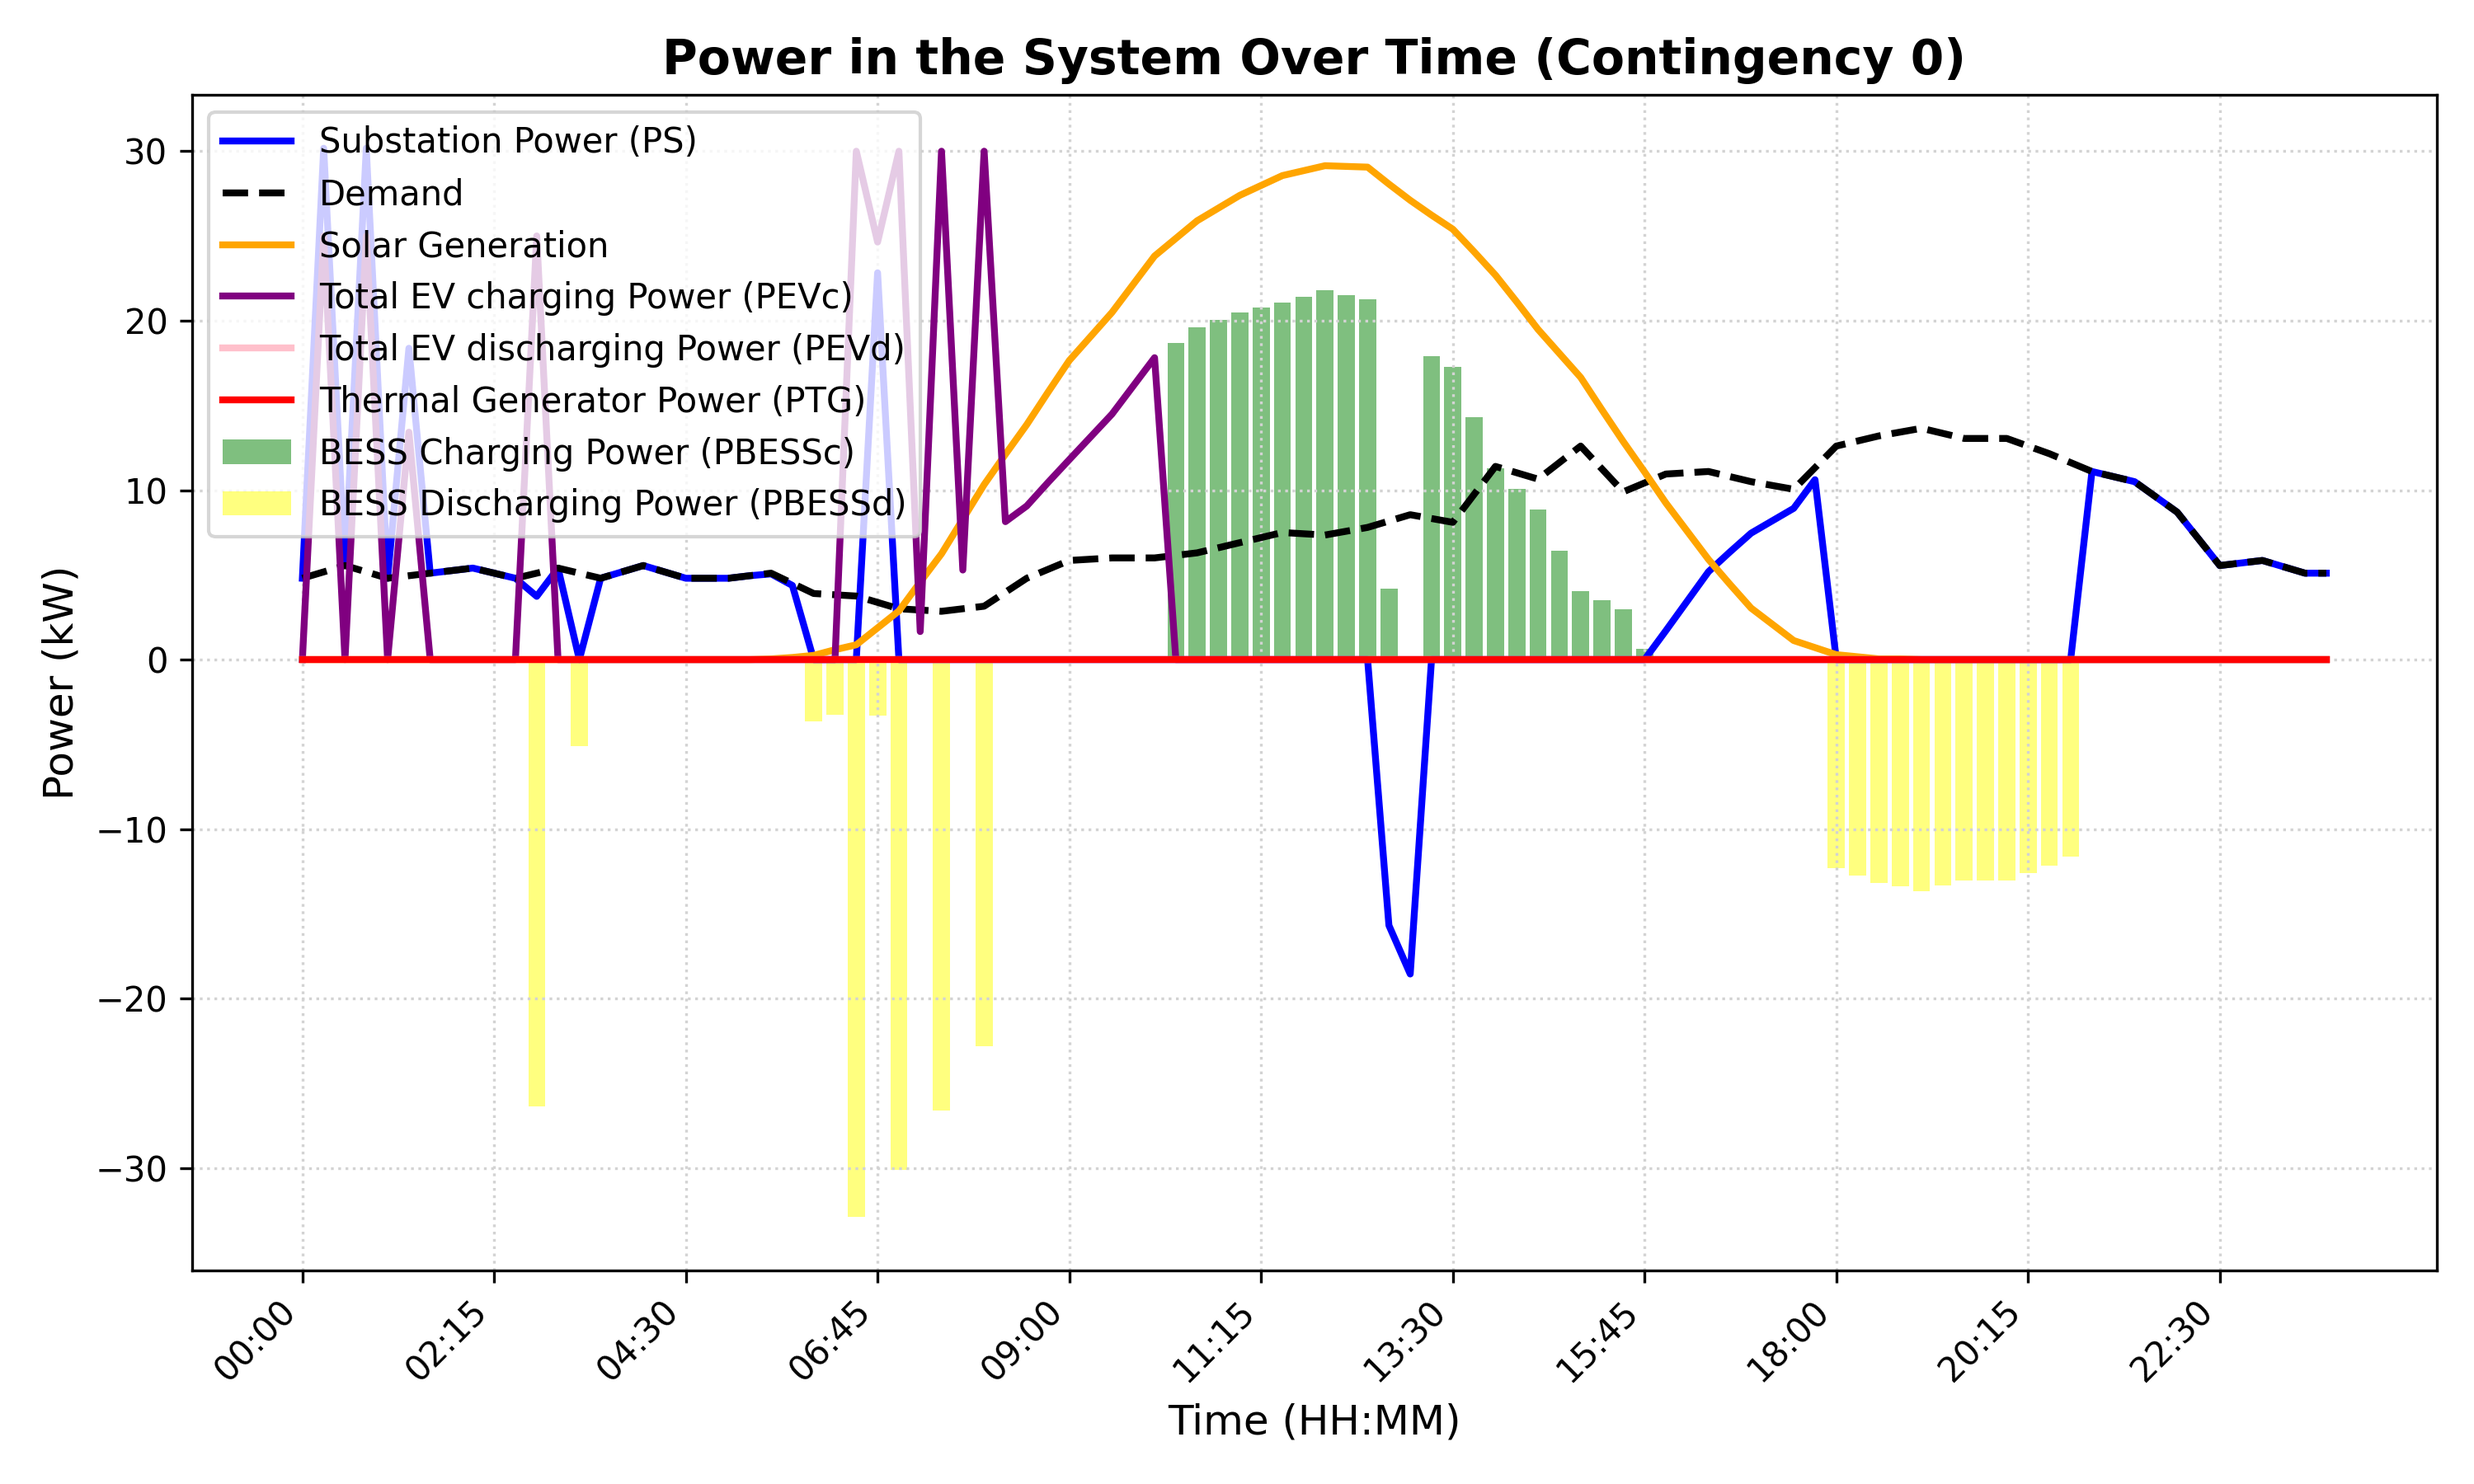
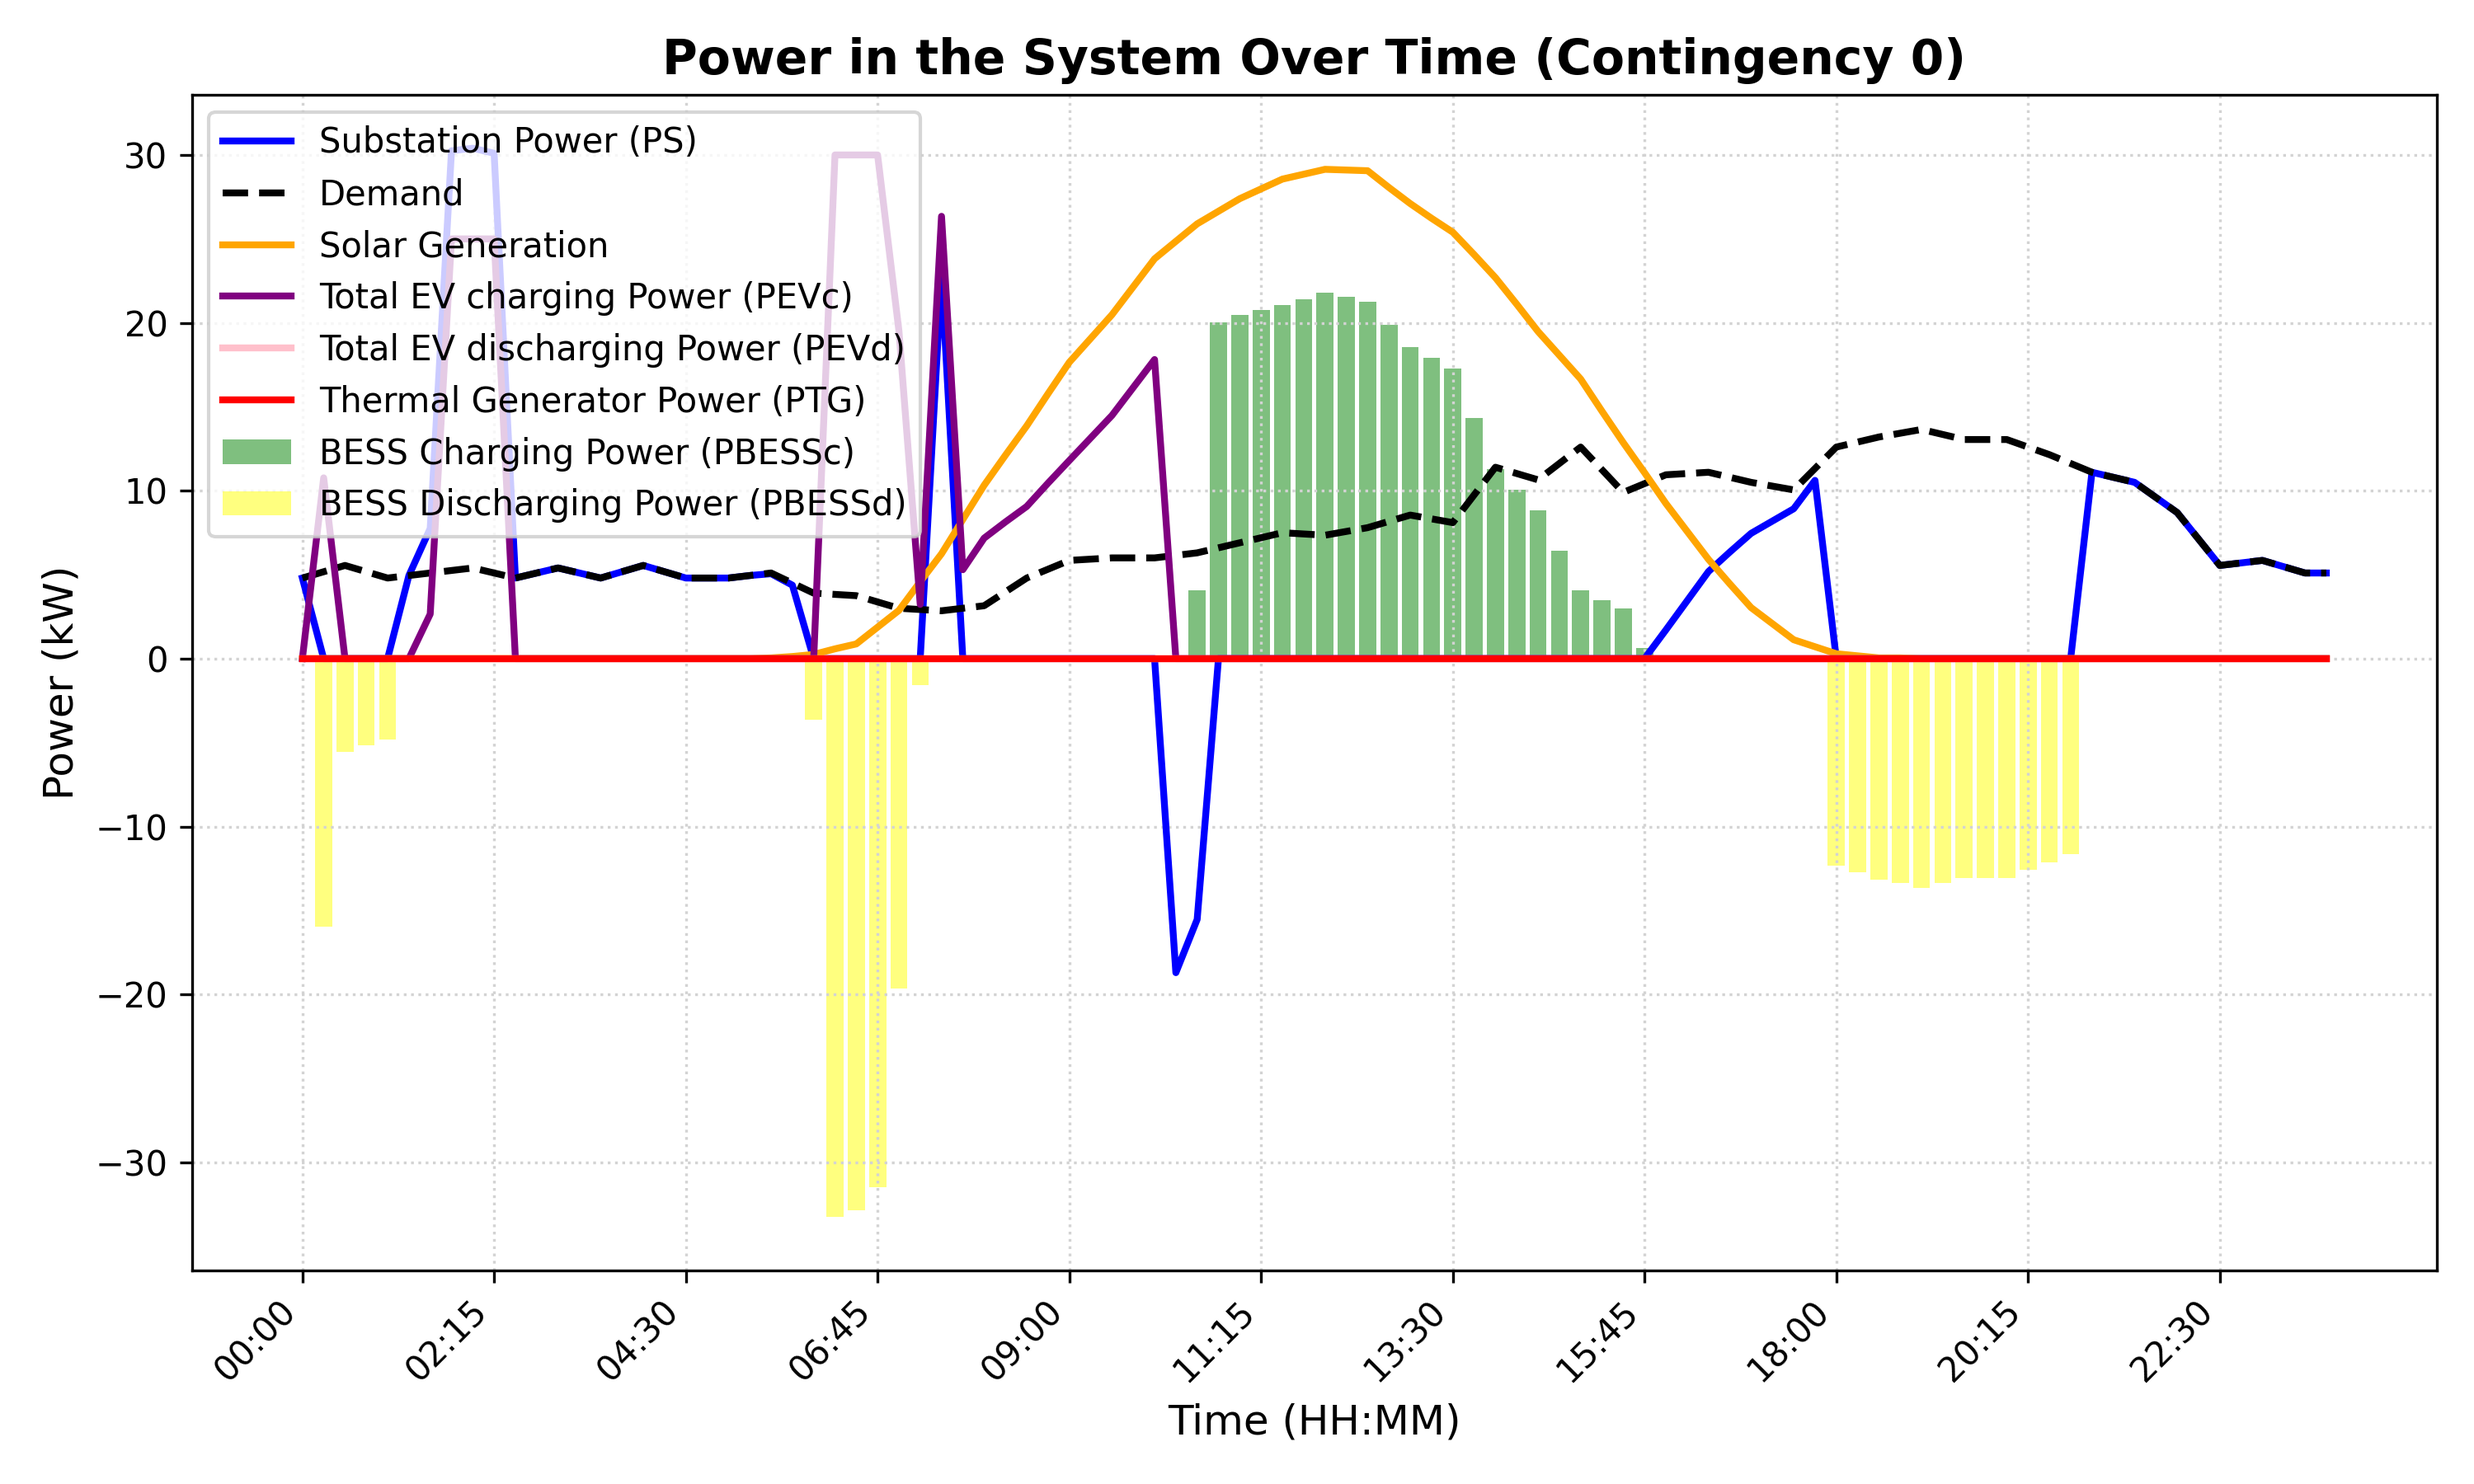
Power Balance Graph

diff --git a/linear_model.py b/linear_model.py
@@ -170,6 +170,9 @@ model.eds_power_constraint = Constraint(Ωt, Ωc, rule=eds_power_rule)
 ################################################################################
 #########################   BESS constraints ###################################
 ################################################################################
+
+ηBESS = data["BESS"]["efficiency"]
+
 def bess_energy_rule(model, t, c):
     return model.EBESS[t, c] <= model.EmaxBESS
 model.bess_energy_constraint = Constraint(Ωt, Ωc, rule=bess_energy_rule)
@@ -185,22 +188,19 @@ model.bess_power_d = Constraint(Ωt, Ωc, rule=bess_power_rule_d)
 def bess_energy_update_rule(model, t, c):
     t2 = datetime.strptime(t, "%H:%M").strftime("%H:%M")
     t1 = (datetime.strptime(t, "%H:%M") - timedelta(minutes=Δt)).strftime("%H:%M")
-    η = 1  # BESS efficiency
-    return model.EBESS[t2, c] == model.EBESS[t1, c] + η * model.PBESS_c[t2, c] * (Δt / 60) - model.PBESS_d[t2, c] * (η * Δt / 60)
+    return model.EBESS[t2, c] == model.EBESS[t1, c] + ηBESS * model.PBESS_c[t2, c] * (Δt / 60) - model.PBESS_d[t2, c] * (ηBESS * Δt / 60)
 model.bess_energy_update = Constraint(Ωt, Ωc, rule=bess_energy_update_rule)
 
 def bess_charging_linearization_rule(model, t, c):
     t1 = (datetime.strptime(t, "%H:%M") - timedelta(minutes=Δt)).strftime("%H:%M")
     t2 = datetime.strptime(t, "%H:%M").strftime("%H:%M")
-    η = 1  # BESS efficiency
-    return model.PBESS_c[t2, c] <= (model.EmaxBESS - model.EBESS[t1, c]) / (η * Δt / 60)
+    return model.PBESS_c[t2, c] <= (model.EmaxBESS - model.EBESS[t1, c]) / (ηBESS * Δt / 60)
 model.bess_charging_linearization = Constraint(Ωt, Ωc, rule=bess_charging_linearization_rule)
 
 def bess_discharging_linearization_1_rule(model, t, c):
     t1 = (datetime.strptime(t, "%H:%M") - timedelta(minutes=Δt)).strftime("%H:%M")
     t2 = datetime.strptime(t, "%H:%M").strftime("%H:%M")
-    η = 1  # BESS efficiency
-    return model.PBESS_d[t2, c] <= model.EBESS[t1, c] * η / (Δt / 60)
+    return model.PBESS_d[t2, c] <= model.EBESS[t1, c] * ηBESS / (Δt / 60)
 model.bess_discharging_linearization_1 = Constraint(Ωt, Ωc, rule=bess_discharging_linearization_1_rule)
 
 def bess_discharging_linearization_2_rule(model, t, c):
@@ -281,11 +281,11 @@ def ev_energy_update_rule(model, ev, t, c):
     t0 = datetime.strptime(t, "%H:%M")
     t2 = datetime.strptime(t, "%H:%M").strftime("%H:%M")
     t1 = (datetime.strptime(t, "%H:%M") - timedelta(minutes=Δt)).strftime("%H:%M")
-    η = EV[ev]['eff']
+    ηEV = EV[ev]['eff']
     if ta < td and t0 > ta and t0 <= td:
-        return model.EEV[ev, t2, c] == model.EEV[ev, t1, c] + η * model.PEV_c[ev, t2, c] * (Δt / 60) - model.PEV_d[ev, t2, c] * (η * Δt / 60)
+        return model.EEV[ev, t2, c] == model.EEV[ev, t1, c] + ηEV * model.PEV_c[ev, t2, c] * (Δt / 60) - model.PEV_d[ev, t2, c] * (ηEV * Δt / 60)
     elif ta > td and not (t0 > td and t0 <= ta):
-        return model.EEV[ev, t2, c] == model.EEV[ev, t1, c] + η * model.PEV_c[ev, t2, c] * (Δt / 60) - model.PEV_d[ev, t2, c] * (η * Δt / 60)
+        return model.EEV[ev, t2, c] == model.EEV[ev, t1, c] + ηEV * model.PEV_c[ev, t2, c] * (Δt / 60) - model.PEV_d[ev, t2, c] * (ηEV * Δt / 60)
     elif t0 == ta:
         return model.EEV[ev, t, c] == EV[ev]['SoCini'] * EV[ev]['Emax']
     else:
@@ -308,26 +308,23 @@ model.ev_energy_offgrid = Constraint(Ωev, Ωt, Ωc, rule=ev_energy_offgrid_rule
 # Modified version of the V2G constraints that handles time correctly
 def v2g_constraints(model, ev, t, c):
     t2 = datetime.strptime(t, "%H:%M").strftime("%H:%M")
-    t1 = (datetime.strptime(t, "%H:%M") - timedelta(minutes=Δt)).strftime("%H:%M")   
-    η = EV[ev]['eff']
-    
-    return model.PEV_c[ev, t2, c] <= (EV[ev]['Emax'] - model.EEV[ev, t1, c])  / (η * Δt / 60) 
+    t1 = (datetime.strptime(t, "%H:%M") - timedelta(minutes=Δt)).strftime("%H:%M")  
+    ηEV = EV[ev]['eff']    
+    return model.PEV_c[ev, t2, c] <= (EV[ev]['Emax'] - model.EEV[ev, t1, c])  / (ηEV * Δt / 60) 
 
 model.v2g_charge = Constraint(Ωev, Ωt, Ωc, rule=v2g_constraints)
 
 def v2g_discharge_constraints(model, ev, t, c):
     t2 = datetime.strptime(t, "%H:%M").strftime("%H:%M")
     t1 = (datetime.strptime(t, "%H:%M") - timedelta(minutes=Δt)).strftime("%H:%M")
-    η = EV[ev]['eff']
-
-    return model.PEV_d[ev, t2, c] <= (model.EEV[ev, t1, c] * η) / (Δt / 60)
+    ηEV = EV[ev]['eff']
+    return model.PEV_d[ev, t2, c] <= (model.EEV[ev, t1, c] * ηEV) / (Δt / 60)
 
 model.v2g_discharge = Constraint(Ωev, Ωt, Ωc, rule=v2g_discharge_constraints)
 
 def v2g_discharge_max(model, ev, t, c):
     t2 = datetime.strptime(t, "%H:%M").strftime("%H:%M")
     t1 = (datetime.strptime(t, "%H:%M") - timedelta(minutes=Δt)).strftime("%H:%M")
-
     # Discharge power should not exceed the calculated max value
     return model.PEV_d[ev, t2, c] <= EV[ev]['Pmax_d'] - (EV[ev]['Pmax_d'] / EV[ev]['Pmax_c']) * model.PEV_c[ev, t2, c]
 model.v2g_discharge_max = Constraint(Ωev, Ωt, Ωc, rule=v2g_discharge_max)
@@ -567,3 +564,112 @@ for c in Ωc:
     plt.savefig(f"Results/SoC_and_alphaEV_Heatmap_{safe_c}.png", dpi=300)
     plt.close()
 
+import matplotlib.pyplot as plt
+import seaborn as sns
+import pandas as pd
+
+import matplotlib.pyplot as plt
+import seaborn as sns
+import pandas as pd
+from matplotlib.colors import LinearSegmentedColormap
+
+import matplotlib.pyplot as plt
+import seaborn as sns
+import pandas as pd
+from matplotlib.colors import LinearSegmentedColormap
+
+import matplotlib.pyplot as plt
+import numpy as np
+
+import matplotlib.pyplot as plt
+import numpy as np
+
+import matplotlib.pyplot as plt
+import numpy as np
+
+# ==========================================
+# Function to plot power balance with stacked bars
+# ==========================================
+def plot_power_balance(contingency_results, c, safe_c):
+    # Extract data for the contingency scenario
+    PS_values = contingency_results[c]['PS']
+    PBESS_c_values = contingency_results[c]['PBESS_c']
+    PBESS_d_values = contingency_results[c]['PBESS_d']
+    PEV_c_values = contingency_results[c]['PEV_c']
+    PEV_d_values = contingency_results[c]['PEV_d']
+    PV_generated = contingency_results[c]['PV']
+    demand_values = contingency_results[c]['Demand']
+    PTG_values = contingency_results[c]['PTG']
+
+    # Prepare data for stacked bars
+    power_in_components = {
+        'Substation': PS_values,
+        'Solar': PV_generated,
+        'Thermal Generator': PTG_values,
+        'EV Discharging': [sum(model.PEV_d[ev, Ωt[t_idx], c].value for ev in Ωev) for t_idx in range(len(Ωt))],
+        'BESS Discharging': [model.PBESS_d[Ωt[t_idx], c].value for t_idx in range(len(Ωt))]
+    }
+    power_out_components = {
+        'Demand': demand_values,
+        'BESS Charging': [model.PBESS_c[Ωt[t_idx], c].value for t_idx in range(len(Ωt))],
+        'EV Charging': [sum(model.PEV_c[ev, Ωt[t_idx], c].value for ev in Ωev) for t_idx in range(len(Ωt))]
+    }
+
+    # Define a vibrant color palette
+    colors_in = {
+        'Substation': '#1f77b4',  # Blue
+        'Solar': '#ff7f0e',       # Orange
+        'Thermal Generator': '#d62728',  # Red
+        'EV Discharging': '#9467bd',  # Purple
+        'BESS Discharging': '#8c564b'  # Brown
+    }
+    colors_out = {
+        'Demand': '#2ca02c',  # Green
+        'BESS Charging': '#e377c2',  # Pink
+        'EV Charging': '#17becf'  # Cyan
+    }
+
+    # Create stacked bar positions
+    x = np.arange(len(Ωt))  # All timestamps
+    width = 0.8  # Bar width
+
+    # Plot power in (positive)
+    bottom_in = np.zeros(len(Ωt))
+    for label in ['Substation', 'Solar', 'Thermal Generator', 'EV Discharging', 'BESS Discharging']:
+        values = power_in_components[label]
+        plt.bar(x, values, width, bottom=bottom_in, label=label, color=colors_in[label])
+        bottom_in += values
+
+    # Plot power out (negative)
+    bottom_out = np.zeros(len(Ωt))
+    for label in ['Demand', 'BESS Charging', 'EV Charging']:
+        values = power_out_components[label]
+        plt.bar(x, [-v for v in values], width, bottom=bottom_out, label=label, color=colors_out[label])
+        bottom_out += [-v for v in values]
+
+    # Customize the plot
+    plt.title(f"Power Balance Over Time (Contingency {c})", fontsize=14, fontweight='bold')
+    plt.xlabel("Time (HH:MM)", fontsize=12)
+    plt.ylabel("Power (kW)", fontsize=12)
+
+    # Reduce the number of x-axis labels for better readability
+    num_ticks = 10  # Number of labels to display
+    step = max(1, len(Ωt) // num_ticks)
+    selected_times = Ωt[::step]
+    selected_indices = range(0, len(Ωt), step)
+
+    plt.xticks(selected_indices, selected_times, rotation=45, ha='right')
+    plt.grid(True, which='both', linestyle=':', color='lightgray')
+    plt.legend(loc='upper left', fontsize=10, frameon=True)
+
+    # Save the plot
+    plt.tight_layout()
+    plt.savefig(f"Results/Power_Balance_Stacked_{safe_c}.png", dpi=300)
+    plt.close()
+
+# ==========================================
+# Loop for each contingency c
+# ==========================================
+for c in Ωc:
+    safe_c = re.sub(r'[^a-zA-Z0-9_]+', '_', str(c))
+    plot_power_balance(contingency_results, c, safe_c)
